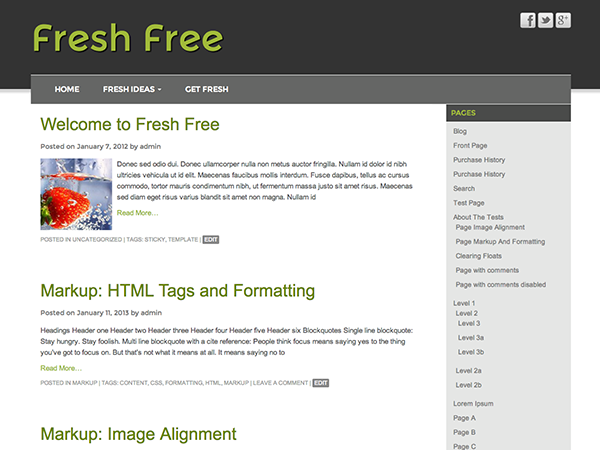
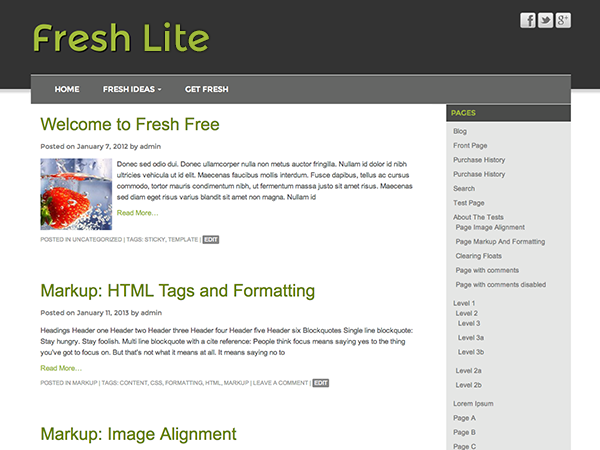
Version 1.0.2 License fixes Updated screenshot

Changed region(s): [[0.24, 0.0311, 0.39, 0.1244]]

diff --git a/style.css b/style.css
@@ -4,7 +4,7 @@ Theme URI:
 Author: CyberChimps
 Author URI: http://www.cyberchimps.com/
 Description: Fresh Lite is a fully Responsive Drag & Drop Starter Wordpress Theme that adds amazing new functionality to your Wordpress website. Featuring Twitter Bootstrap, and responsive touch friendly theme options that work on any device.
-Version: 1.0.1
+Version: 1.0.2
 Tags: white, black, silver, light, two-columns, right-sidebar, fixed-width, custom-background, custom-colors, custom-menu, featured-images, post-formats, theme-options, threaded-comments, sticky-post
 License: GNU General Public License version 3
 License URI: http://www.opensource.org/licenses/gpl-license.php GPL v3.0 (or later)
